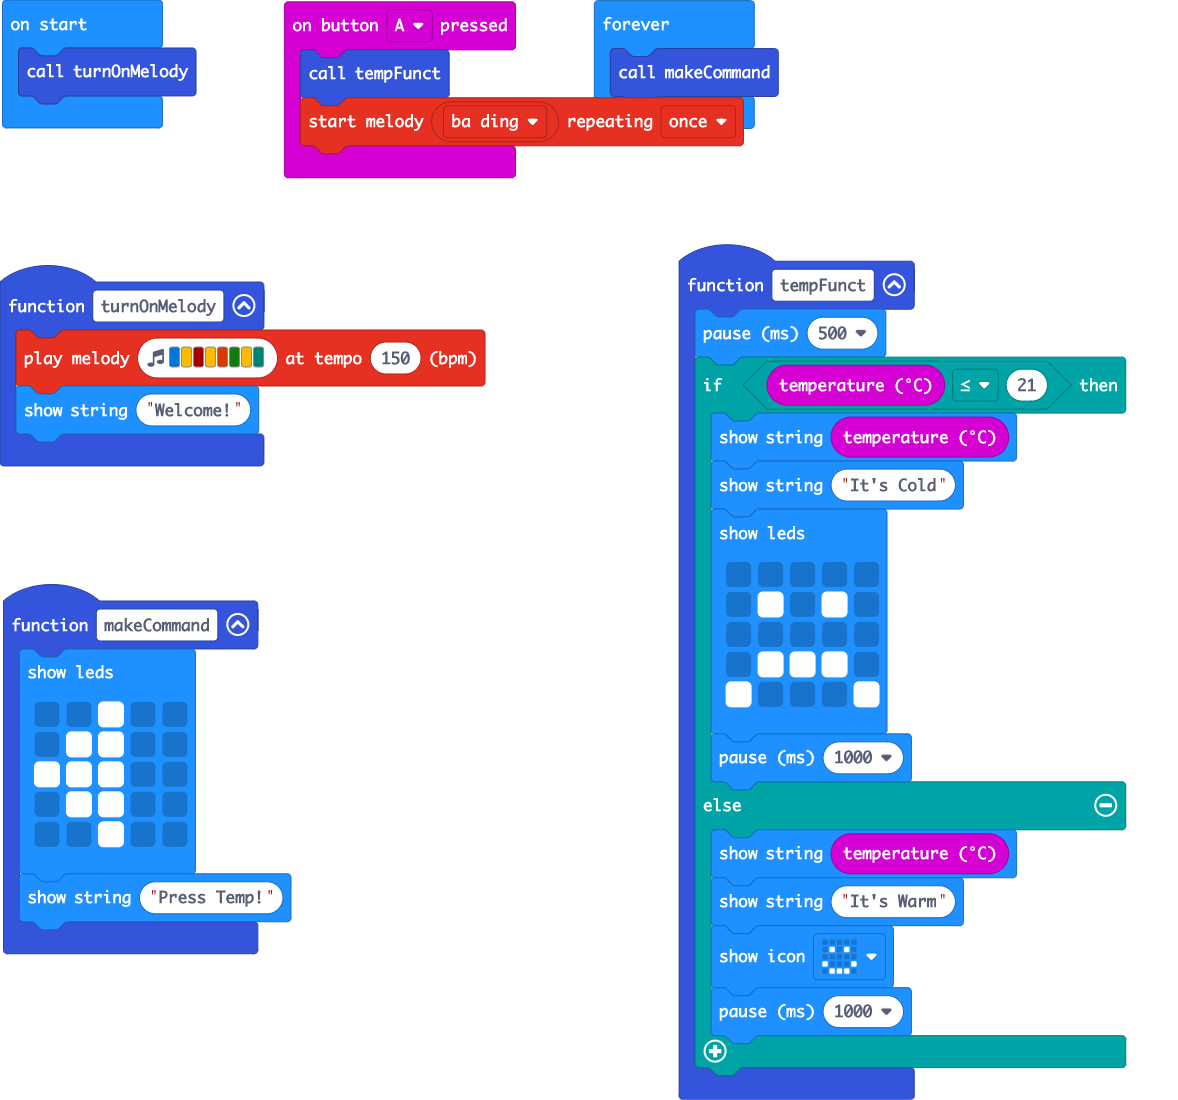
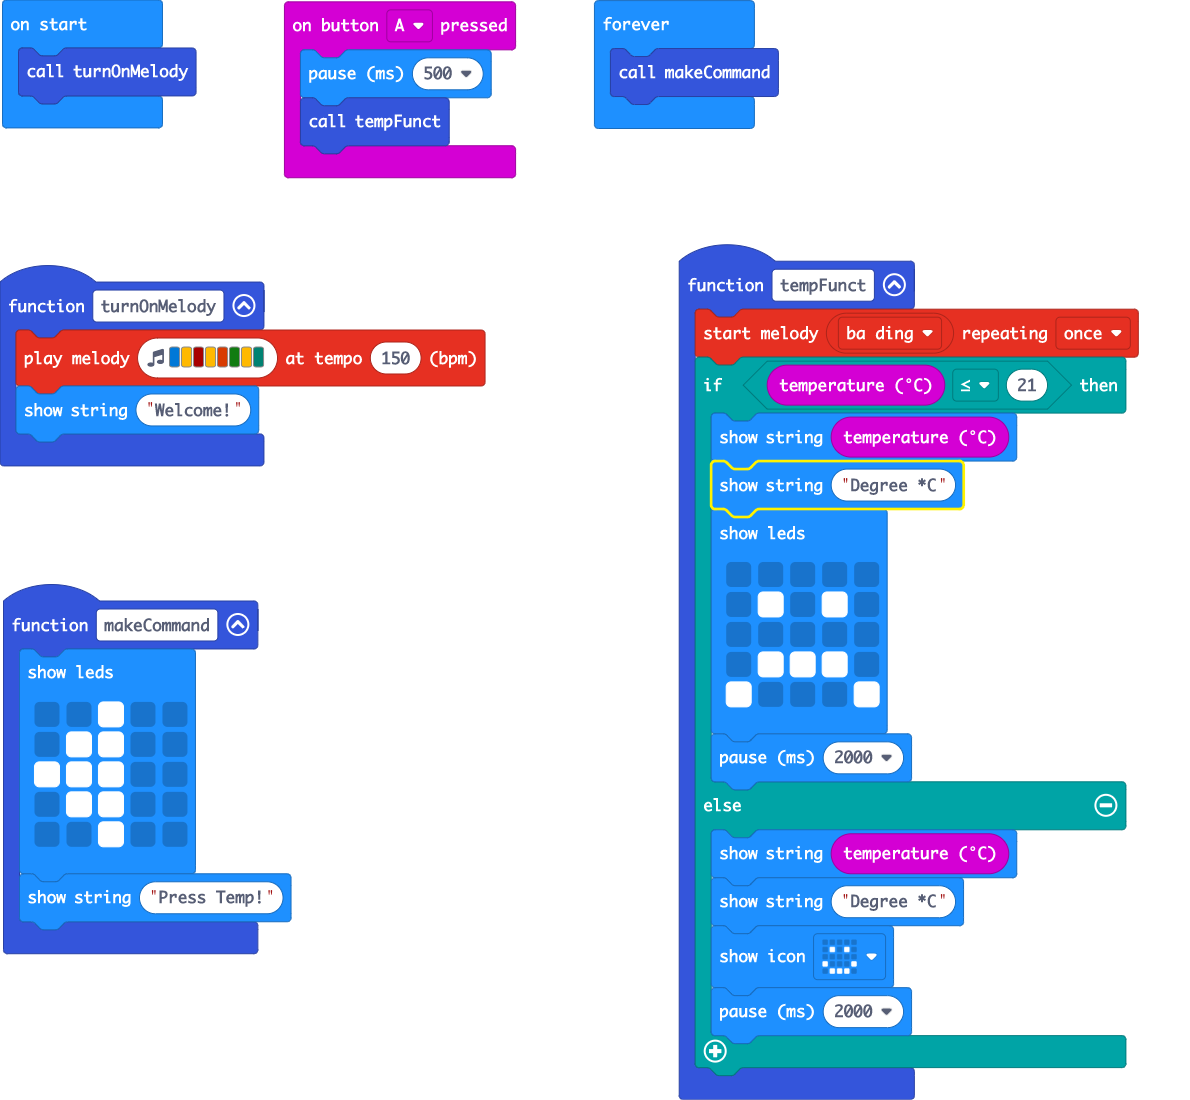
Update main.blocks, main.ts

diff --git a/main.ts b/main.ts
@@ -1,6 +1,6 @@
 input.onButtonPressed(Button.A, function () {
+    basic.pause(500)
     tempFunct()
-    music.startMelody(music.builtInMelody(Melodies.BaDing), MelodyOptions.Once)
 })
 function makeCommand () {
     basic.showLeds(`
@@ -13,10 +13,10 @@ function makeCommand () {
     basic.showString("Press Temp!")
 }
 function tempFunct () {
-    basic.pause(500)
+    music.startMelody(music.builtInMelody(Melodies.BaDing), MelodyOptions.Once)
     if (input.temperature() <= 21) {
         basic.showString("" + (input.temperature()))
-        basic.showString("It's Cold")
+        basic.showString("Degree *C")
         basic.showLeds(`
             . . . . .
             . # . # .
@@ -24,12 +24,12 @@ function tempFunct () {
             . # # # .
             # . . . #
             `)
-        basic.pause(1000)
+        basic.pause(2000)
     } else {
         basic.showString("" + (input.temperature()))
-        basic.showString("It's Warm")
+        basic.showString("Degree *C")
         basic.showIcon(IconNames.Happy)
-        basic.pause(1000)
+        basic.pause(2000)
     }
 }
 function turnOnMelody () {
